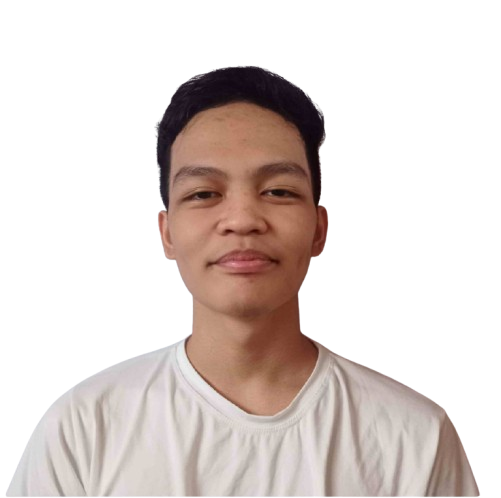
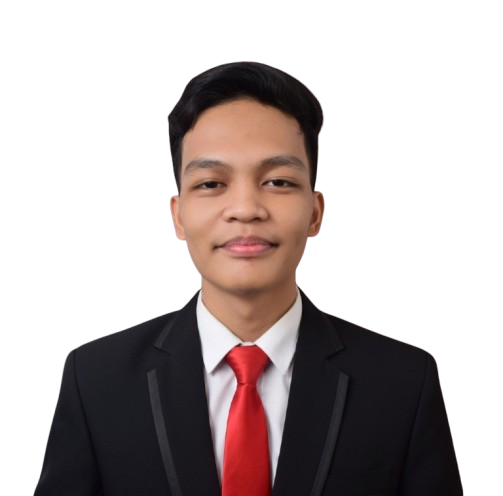
feat: added new Image of myself in about section
refactor: the data in data.jsx and some section in website

diff --git a/src/App.jsx b/src/App.jsx
@@ -1,10 +1,10 @@
 import { useState } from "react";
-import { motion } from "framer-motion";
 
 import { SiGmail } from "react-icons/si";
 import {
   FaFacebookF,
   FaGithub,
+  FaLinkedin,
   FaPhoneAlt,
   FaRegCopyright,
 } from "react-icons/fa";
@@ -47,7 +47,7 @@ export default function App() {
   };
 
   return (
-    <div className="min-h-screen text-(--primary-txt) bg-(--primary-bg) font-headline">
+    <div className="min-h-screen text-(--primary-txt) bg-(--primary-bg) font-body">
       <nav className="w-full bg-(--primary-bg)/80 fixed top-0 left-0 z-50">
         <div className="py-5 px-5 flex items-center lg:justify-around justify-between">
           <h3 className="font-semibold text-lg">Andrei.</h3>
@@ -141,11 +141,11 @@ export default function App() {
 
           <div className="flex-1 space-y-3">
             <FadeUp>
-              <h1 className="text-4xl font-bold">ABOUT ME</h1>
+              <h1 className="text-4xl font-bold font-headline">ABOUT ME</h1>
             </FadeUp>
 
             <FadeUp>
-              <h3 className="text-2xl font-semibold text-(--primary-btn)">
+              <h3 className="text-2xl font-semibold text-(--primary-btn) font-headline">
                 Junior Frontend Developer
               </h3>
             </FadeUp>
@@ -198,20 +198,20 @@ export default function App() {
 
         <div className="space-y-10">
           <FadeUp>
-            <h1 className="text-4xl font-bold text-center">
+            <h1 className="text-4xl font-bold text-center font-headline">
               EDUCATION & WORK EXPERIENCE
             </h1>
           </FadeUp>
 
           <div>
             {educWork.map((work, index) => (
-              <FadeUp>
+              <FadeUp key={index}>
                 <div className="min-h-[200px] flex" key={index}>
                   <div className="flex-1 space-y-2">
                     <h2 className="text-2xl font-bold text-(--primary-btn)">
                       {work.where}
                     </h2>
-                    <p>{work.date}</p>
+                    <p className="text-gray-500">{work.date}</p>
                   </div>
 
                   <div className="mx-5 flex justify-center">
@@ -230,7 +230,13 @@ export default function App() {
                       {work.title}
                     </h2>
 
-                    <p>{work.description}</p>
+                    {work.description.map((desc, index) => (
+                      <li
+                        key={index}
+                        className="ml-5 mb-5 text-gray-500"
+                        dangerouslySetInnerHTML={{ __html: desc }}
+                      />
+                    ))}
                   </div>
                 </div>
               </FadeUp>
@@ -240,7 +246,9 @@ export default function App() {
 
         <div className="space-y-10">
           <FadeUp>
-            <h1 className="text-4xl font-bold text-center">MY SKILLS</h1>
+            <h1 className="text-4xl font-bold text-center font-headline">
+              MY SKILLS
+            </h1>
           </FadeUp>
 
           <div className="grid grid-cols-1 lg:grid-cols-2 gap-10">
@@ -248,8 +256,8 @@ export default function App() {
               <FadeUp>
                 <h3 className="text-2xl font-medium">Web Development</h3>
               </FadeUp>
-              {webSkills.map((skill) => (
-                <FadeUp>
+              {webSkills.map((skill, index) => (
+                <FadeUp key={index}>
                   <div className="w-full mb-4">
                     <div className="flex justify-between mb-1">
                       <span className="font-medium">{skill.name}</span>
@@ -270,8 +278,8 @@ export default function App() {
               <FadeUp>
                 <h3 className="text-2xl font-medium">Mobile Development</h3>
               </FadeUp>
-              {mobileSkills.map((skill) => (
-                <FadeUp>
+              {mobileSkills.map((skill, index) => (
+                <FadeUp key={index}>
                   <div className="w-full mb-4">
                     <div className="flex justify-between mb-1">
                       <span className="font-medium">{skill.name}</span>
@@ -297,60 +305,70 @@ export default function App() {
         className="p-10 lg:p-20 xl:p-30 space-y-10 lg:space-y-20 xl:space-y-30 bg-gray-100"
       >
         <FadeUp>
-          <h1 className="text-4xl font-bold text-center">PROJECTS</h1>
+          <h1 className="text-4xl font-bold text-center font-headline">
+            PROJECTS
+          </h1>
         </FadeUp>
         <FadeUp>
-          <div className="grid grid-cols-1 md:grid-cols-2 lg:grid-cols-3 gap-10">
-            {projects.map((project, index) => (
-              <button
-                key={index}
-                onClick={() =>
-                  setOpenProject((prev) => (prev === index ? null : index))
-                }
-                className="aspect-square relative group"
-              >
-                <div className="p-3 rounded-lg bg-gray-200 absolute inset-0 z-10 overflow-hidden">
-                  <img
-                    src={project.image}
-                    alt="Project Image"
-                    className={`
-                      w-full h-full object-cover transition group-hover:scale-[1.2]
-                      ${openProject === index ? "scale-[1.2]" : "scale-100"}
-                    `}
-                  />
-                </div>
-
+          {projects.length === 0 ? (
+            <FadeUp>
+              <h1 className="text-xl text-center text-gray-500">
+                No Project Yet
+              </h1>
+            </FadeUp>
+          ) : (
+            <div className="grid grid-cols-1 md:grid-cols-2 lg:grid-cols-3 gap-10">
+              {projects.map((project, index) => (
                 <div
-                  className={`
-                    w-full h-full space-y-3 bg-black/50 text-center text-(--primary-bg) z-20 absolute inset-0 opacity-0 invisible transition group-hover:opacity-100 group-hover:visible overflow-hidden rounded-lg
-                    ${openProject === index ? "opacity-100 visible" : "opacity-0 invisible"}              
-                  `}
+                  key={index}
+                  onClick={() =>
+                    setOpenProject((prev) => (prev === index ? null : index))
+                  }
+                  className="aspect-square relative group"
                 >
-                  <div className="space-y-3 h-full center-flex">
-                    <div className="flex-1">
-                      <h2 className="text-(--primary-btn) text-2xl font-bold">
-                        {project.name}
-                      </h2>
-                      <p>{project.position}</p>
-                      <button
-                        className="button w-1/3 mt-5 bg-(--primary-btn) cursor-pointer"
-                        onClick={() => viewDetails(project)}
-                      >
-                        View Details
-                      </button>
+                  <div className="p-3 rounded-lg bg-gray-200 absolute inset-0 z-10 overflow-hidden">
+                    <img
+                      src={project.image}
+                      alt="Project Image"
+                      className={`
+                          w-full h-full object-cover transition group-hover:scale-[1.2]
+                          ${openProject === index ? "scale-[1.2]" : "scale-100"}
+                        `}
+                    />
+                  </div>
+
+                  <div
+                    className={`
+                        w-full h-full space-y-3 bg-black/50 text-center text-(--primary-bg) z-20 absolute inset-0 opacity-0 invisible transition group-hover:opacity-100 group-hover:visible overflow-hidden rounded-lg
+                        ${openProject === index ? "opacity-100 visible" : "opacity-0 invisible"}              
+                      `}
+                  >
+                    <div className="space-y-3 h-full center-flex">
+                      <div className="flex-1">
+                        <h2 className="text-(--primary-btn) text-2xl font-bold">
+                          {project.name}
+                        </h2>
+                        <p>{project.position}</p>
+                        <button
+                          className="button w-1/3 mt-5 bg-(--primary-btn) cursor-pointer"
+                          onClick={() => viewDetails(project)}
+                        >
+                          View Details
+                        </button>
+                      </div>
                     </div>
                   </div>
-                </div>
 
-                <div className="border-shadow rounded-lg"></div>
-              </button>
-            ))}
-          </div>
+                  <div className="border-shadow rounded-lg"></div>
+                </div>
+              ))}
+            </div>
+          )}
         </FadeUp>
         {openViewDetails && selectedProject && (
           <div className="p-5 fixed inset-0 center-flex bg-black/50 z-50">
             <div className="p-5 w-full lg:w-3/4 min-h-auto lg:min-h-1/2 bg-(--primary-bg) rounded-lg">
-              <h1 className="text-2xl font-bold relative">
+              <h1 className="text-2xl font-bold relative font-headline">
                 {selectedProject.name}
                 <IoClose
                   size={20}
@@ -432,7 +450,9 @@ export default function App() {
         <div className="space-y-10 mt-5 flex flex-col lg:flex-row justify-between">
           <div className="lg:max-w-1/2 flex-1 space-y-5">
             <FadeUp>
-              <h1 className="text-4xl font-bold">Let’s Work Together</h1>
+              <h1 className="text-4xl font-bold font-headline">
+                Let’s Work Together
+              </h1>
             </FadeUp>
             <FadeUp>
               <h3 className="text-2xl">
@@ -473,6 +493,19 @@ export default function App() {
             <FadeUp>
               <div className="flex items-center gap-5">
                 <div className="p-3 bg-(--primary-btn)/30 rounded-full">
+                  <FaLinkedin size={25} color="var(--primary-btn)" />
+                </div>
+                <a
+                  href="https://www.linkedin.com/in/marc-andrei-nisperos-2382133b7?utm_source=share_via&utm_content=profile&utm_medium=member_android"
+                  className="underline"
+                >
+                  Marc Andrei Nisperos
+                </a>
+              </div>
+            </FadeUp>
+            <FadeUp>
+              <div className="flex items-center gap-5">
+                <div className="p-3 bg-(--primary-btn)/30 rounded-full">
                   <FaLocationDot size={25} color="var(--primary-btn)" />
                 </div>
                 <p>Imus City, Cavite, Philippines</p>
@@ -505,6 +538,13 @@ export default function App() {
           <div className="flex items-center gap-5">
             <a href="https://www.facebook.com/annndreeei">
               <FaFacebookF size={20} />
+            </a>
+            <a
+              href="https://www.linkedin.com/in/marc-andrei-nisperos-2382133b7?utm_source=share_via&utm_content=profile&utm_medium=member_android"
+              target="_blank"
+              rel="noopener noreferrer"
+            >
+              <FaLinkedin size={20} />
             </a>
             <a
               href="https://github.com/marcandreinisperos13"

diff --git a/src/data.jsx b/src/data.jsx
@@ -9,17 +9,19 @@ export const links = [
 // about section
 export const educWork = [
   {
-    where: "No Job",
-    date: "March 2026",
-    title: "No Job Position",
-    description:
-      "Lorem ipsum dolor sit amet consectetur, adipisicing elit. Repudiandae asperiores necessitatibus omnis facilis sed fuga, hic mollitia, non velit unde et iure dolorem aspernatur corrupti temporibus magni minus quos optio.",
+    where: "Okto Tech",
+    date: "Sept 2025 - Present",
+    title: "Junior Front-End Developer ",
+    description: [
+      "<strong>Built Okto Tech Website</strong> from the scratch using <strong>Next.js, Tailwind CSS and Shadcn UI</strong>, creating a modern and fully responsive interface. Developed reusable UI components, implemented responsive layouts, and optimized performance and accessibility to ensure a seamless user experience across desktop, tablet, and mobile devices.",
+      "<strong>Built Okto Tech MVP Website and Mobile Application</strong> from the scratch using <strong>Next.js, Tailwind CSS and Shadcn UI</strong> for website and <strong>React Native</strong> for mobile application, creating modern and responsive UI. Developed reusable UI components, implemented responsive layouts for both platform.",
+    ],
   },
   {
     where: "Bachelor of Science in Information Technology",
     date: "September 2021 - July 2025",
     title: "College Graduate",
-    description: "Graduated at Cavite State University - Tanza Campus",
+    description: ["Graduated at Cavite State University - Tanza Campus"],
   },
 ];
 export const webSkills = [
@@ -36,38 +38,21 @@ export const mobileSkills = [
 
 // project section
 export const projects = [
-  {
-    name: "Project Name",
-    position: "Job Position",
-    description:
-      "Lorem ipsum dolor sit amet consectetur adipisicing elit. Voluptas, voluptate.",
-    image: "Nahida.png",
-    images: [
-      "Citlali.png",
-      "Citlali.png",
-      "Citlali.png",
-      "Citlali.png",
-      "Citlali.png",
-    ],
-    client: "Client Name",
-    date: "March 2026",
-    tech: ["Tech 1", "Tech 2", "Tech 3"],
-  },
-  {
-    name: "Project Name",
-    position: "Job Position",
-    description:
-      "Lorem ipsum dolor sit amet consectetur adipisicing elit. Voluptas, voluptate.",
-    image: "Nahida.png",
-    images: [
-      "Citlali.png",
-      "Citlali.png",
-      "Citlali.png",
-      "Citlali.png",
-      "Citlali.png",
-    ],
-    client: "Client Name",
-    date: "March 2026",
-    tech: ["Tech 1", "Tech 2", "Tech 3"],
-  },
+  // {
+  //   name: "Project Name",
+  //   position: "Job Position",
+  //   description:
+  //     "Lorem ipsum dolor sit amet consectetur adipisicing elit. Voluptas, voluptate.",
+  //   image: "none.png",
+  //   images: [
+  //     "placeholder.png",
+  //     "placeholder.png",
+  //     "placeholder.png",
+  //     "placeholder.png",
+  //     "placeholder.png",
+  //   ],
+  //   client: "Client Name",
+  //   date: "March 2026",
+  //   tech: ["Tech 1", "Tech 2", "Tech 3"],
+  // },
 ];
